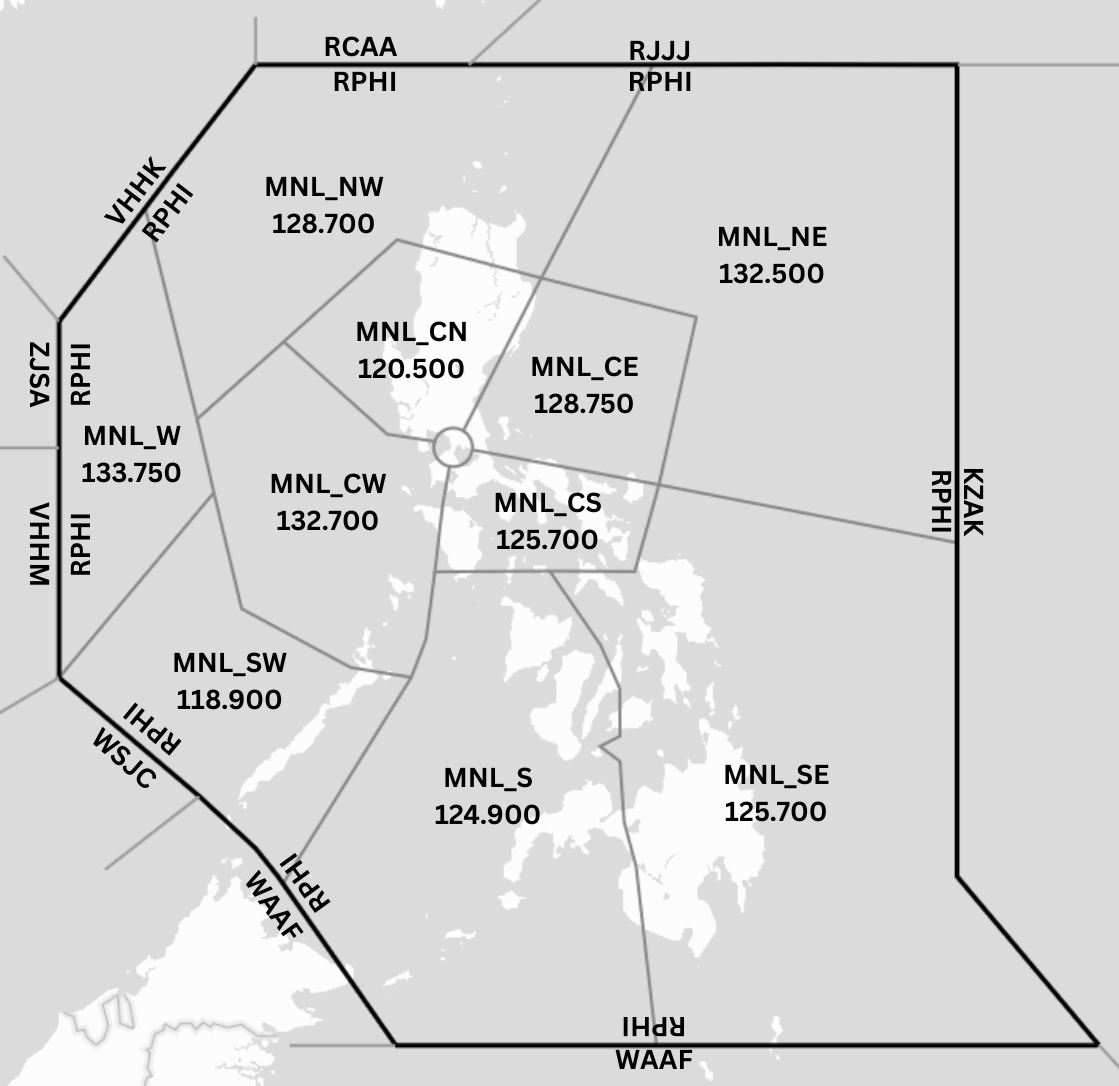
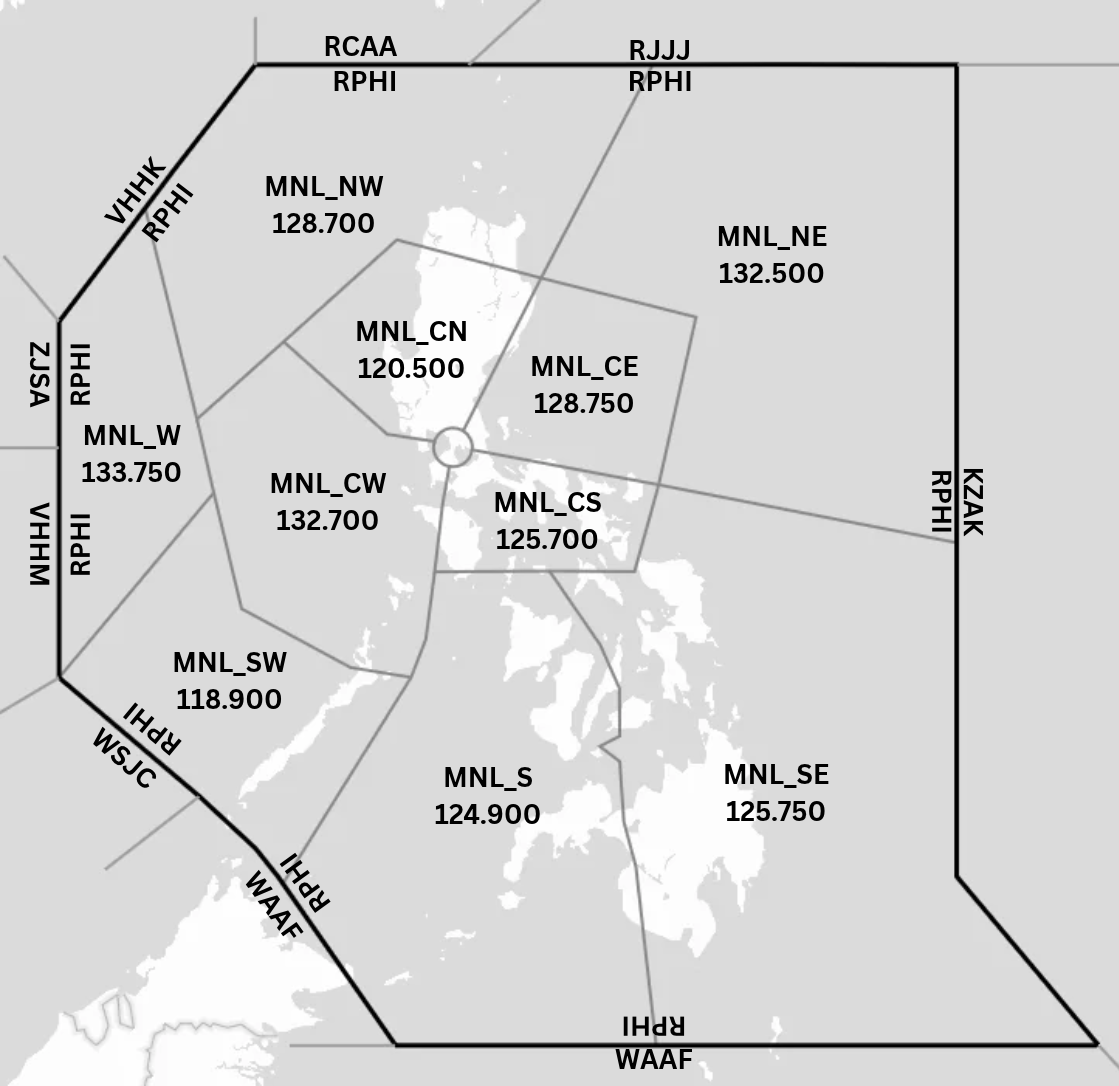
Fix

diff --git a/tools/build_mnl_sectors.py b/tools/build_mnl_sectors.py
@@ -56,7 +56,7 @@ INFO = {
     "MNL_CN": ("Manila Central North", "120.500"), "MNL_CE": ("Manila Central East", "128.750"),
     "MNL_CW": ("Manila Central West", "132.700"), "MNL_CS": ("Manila Central South", "125.700"),
     "MNL_W": ("Manila West", "133.750"), "MNL_SW": ("Manila South West", "118.900"),
-    "MNL_S": ("Manila South", "124.900"), "MNL_SE": ("Manila South East", "125.700"),
+    "MNL_S": ("Manila South", "124.900"), "MNL_SE": ("Manila South East", "125.750"),
 }
 
 

diff --git a/docs/briefings/index.md b/docs/briefings/index.md
@@ -433,7 +433,7 @@ Here you will find aerodrome briefings for the airports within the Philippines. 
     "MNL_W":     { name: "Manila West",             freqs: [{ role: "Primary", mhz: "133.750" }] },
     "MNL_SW":    { name: "Manila South West",       freqs: [{ role: "Primary", mhz: "118.900" }] },
     "MNL_S":     { name: "Manila South",            freqs: [{ role: "Primary", mhz: "124.900" }] },
-    "MNL_SE":    { name: "Manila South East",       freqs: [{ role: "Primary", mhz: "125.700" }] }
+    "MNL_SE":    { name: "Manila South East",       freqs: [{ role: "Primary", mhz: "125.750" }] }
   };
 
   var sectors = [
